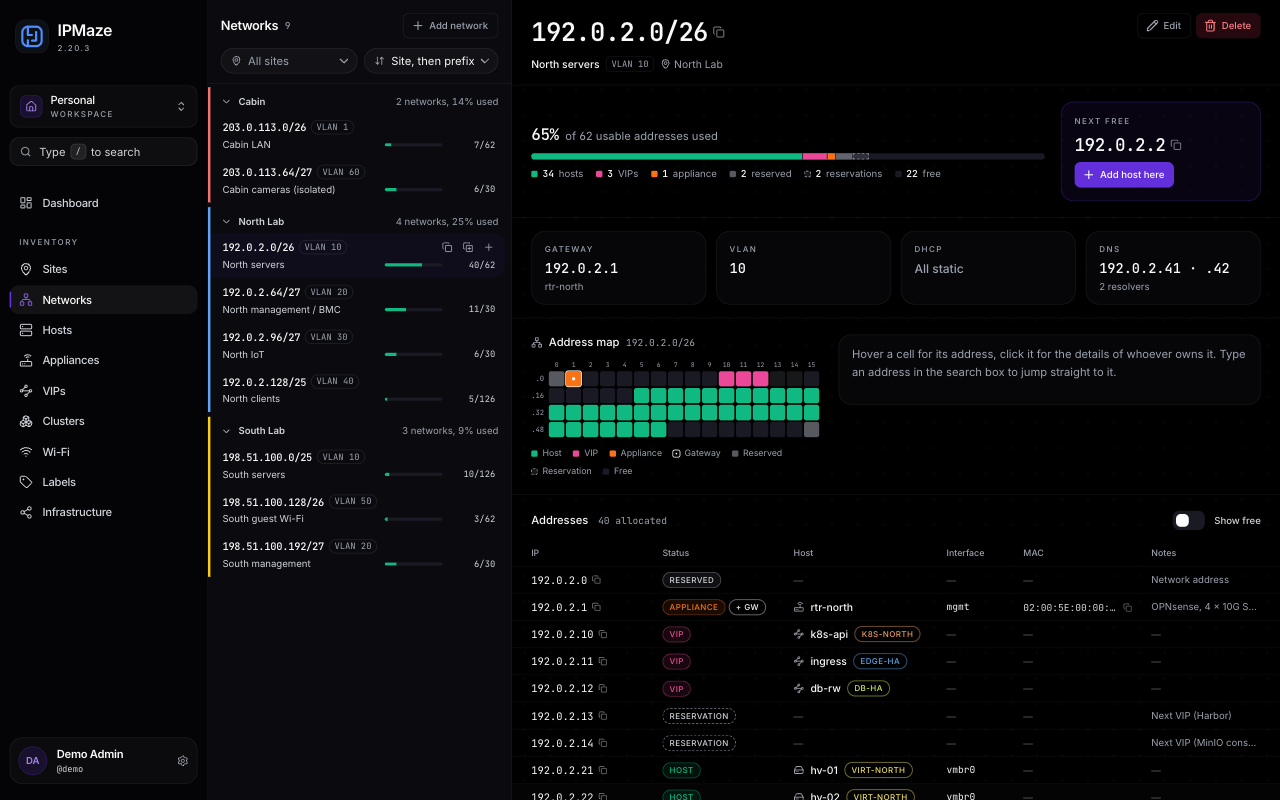
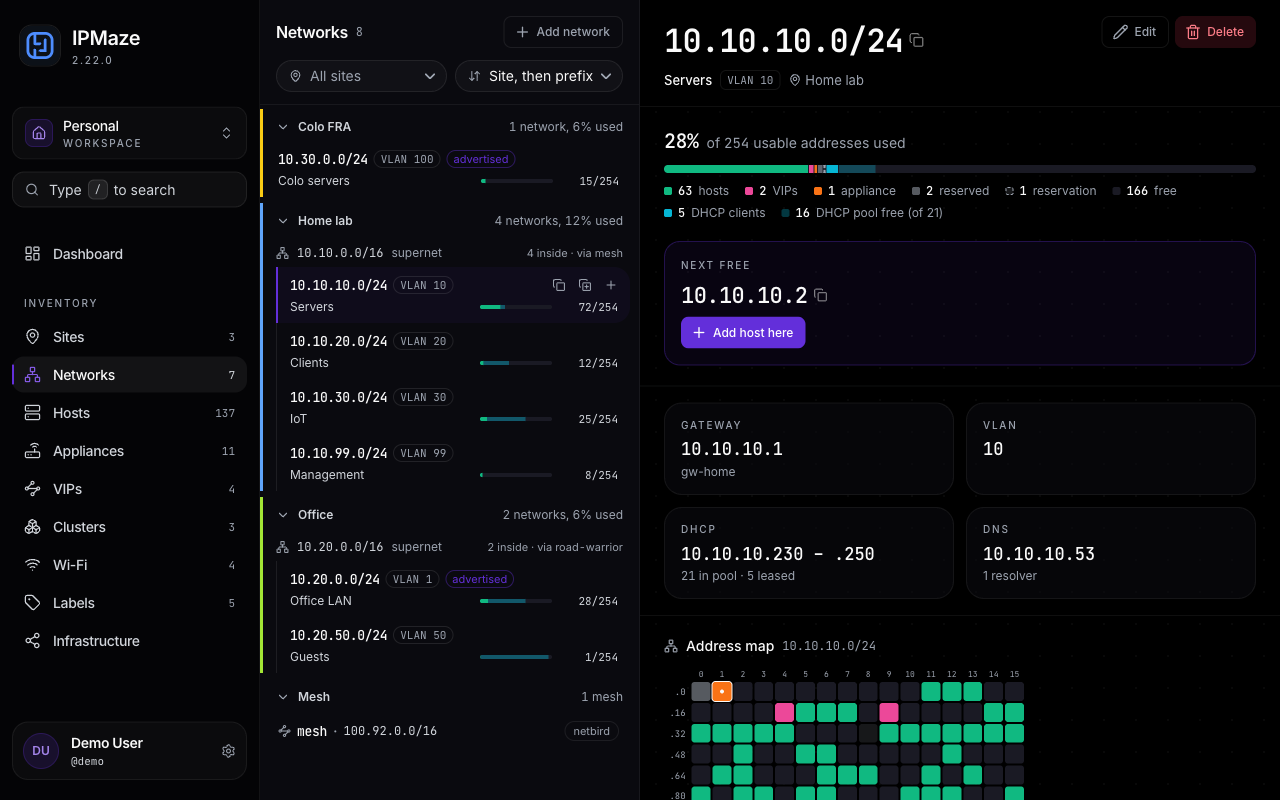
fix(site): IPMaze screenshots from the demo workspace, at 2.22.0
The light and dark shots are retaken at 1280×800 from IPMaze's demo
workspace, on the same network view (10.10.10.0/24), with the sidebar's
new resource counts. They carry the version they ship in. The alt text
now says what the shot shows.

diff --git a/site/index.html b/site/index.html
@@ -97,7 +97,7 @@
         <article class="row flag" id="ipmaze">
           <div class="meta"><span class="kicker">01 · flagship</span><span class="status soon">● coming soon</span></div>
           <h3><img class="logo" width="48" height="48" src="img/logo-ipmaze.svg" alt="">IPMaze</h3>
-          <div class="shot"><img class="when-light" width="1280" height="800" src="img/ipmaze-light.png" alt="IPMaze network view with an address map and host list" loading="lazy"><img class="when-dark" width="1280" height="800" src="img/ipmaze-dark.png" alt="IPMaze network view with an address map and host list" loading="lazy"></div>
+          <div class="shot"><img class="when-light" width="1280" height="800" src="img/ipmaze-light.png" alt="IPMaze networks: the networks of every site and one network's address map" loading="lazy"><img class="when-dark" width="1280" height="800" src="img/ipmaze-dark.png" alt="IPMaze networks: the networks of every site and one network's address map" loading="lazy"></div>
           <div class="flag-body">
             <div>
               <p class="pitch">IP address management for homelabs and small networks. Sites, networks, Wi-Fi, hosts and the VPNs between them, documented in one place instead of a spreadsheet.</p>
